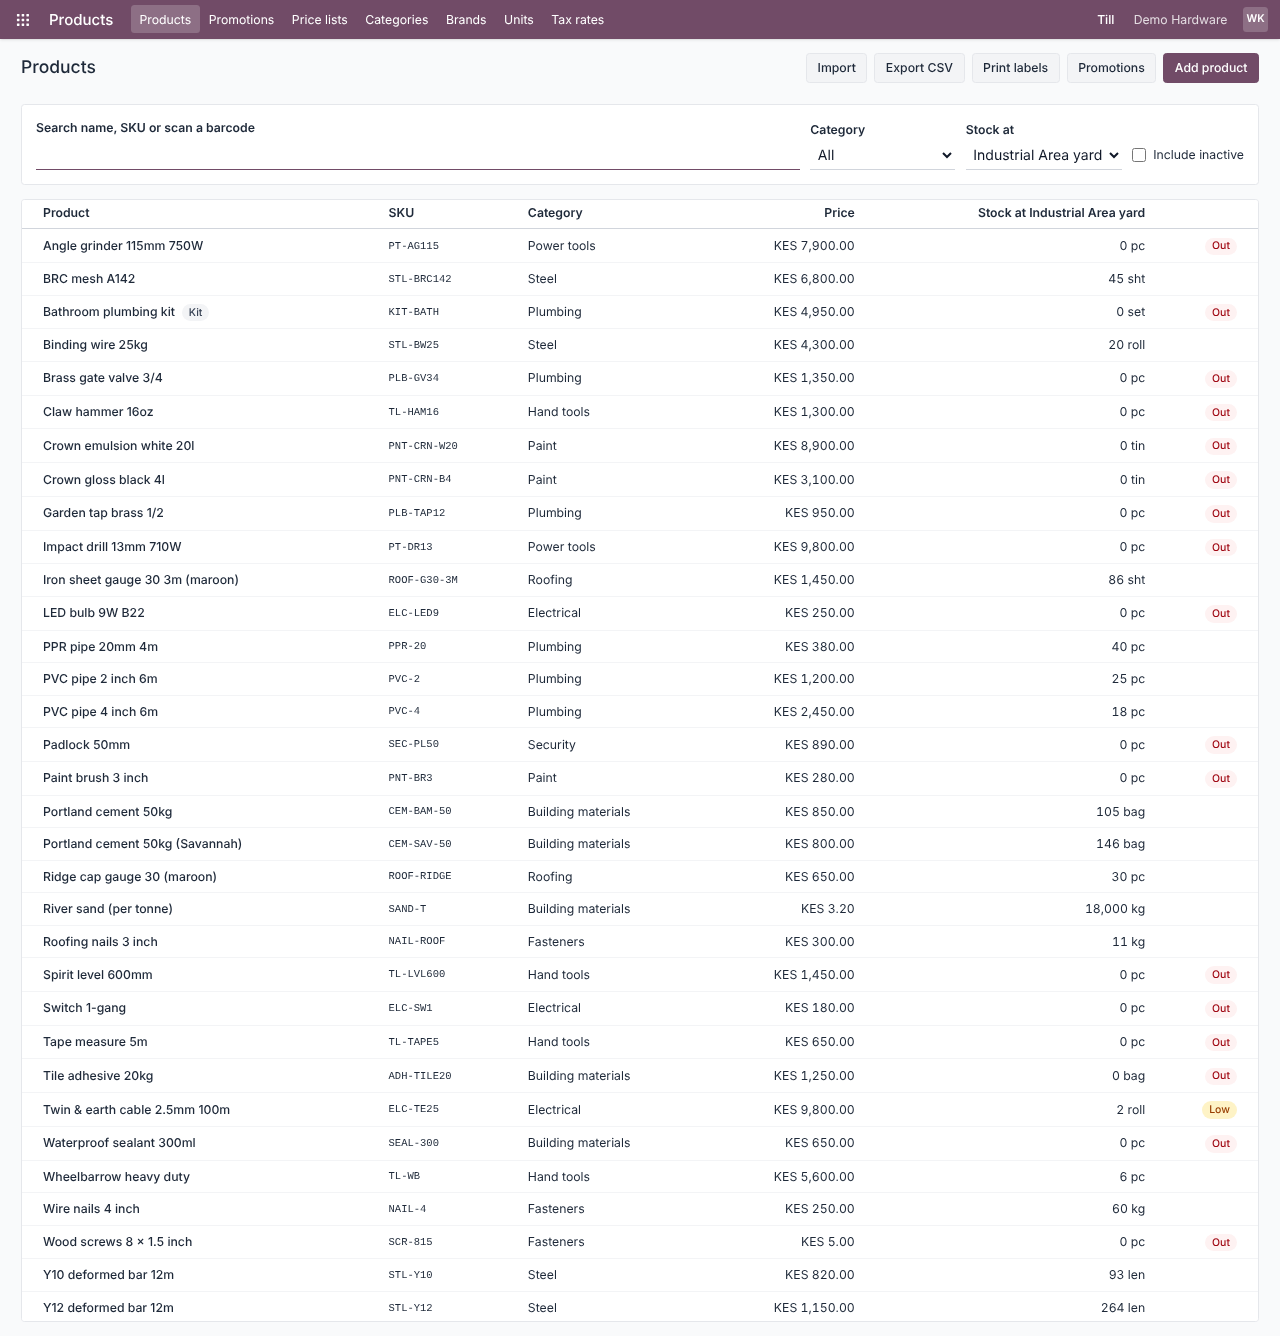
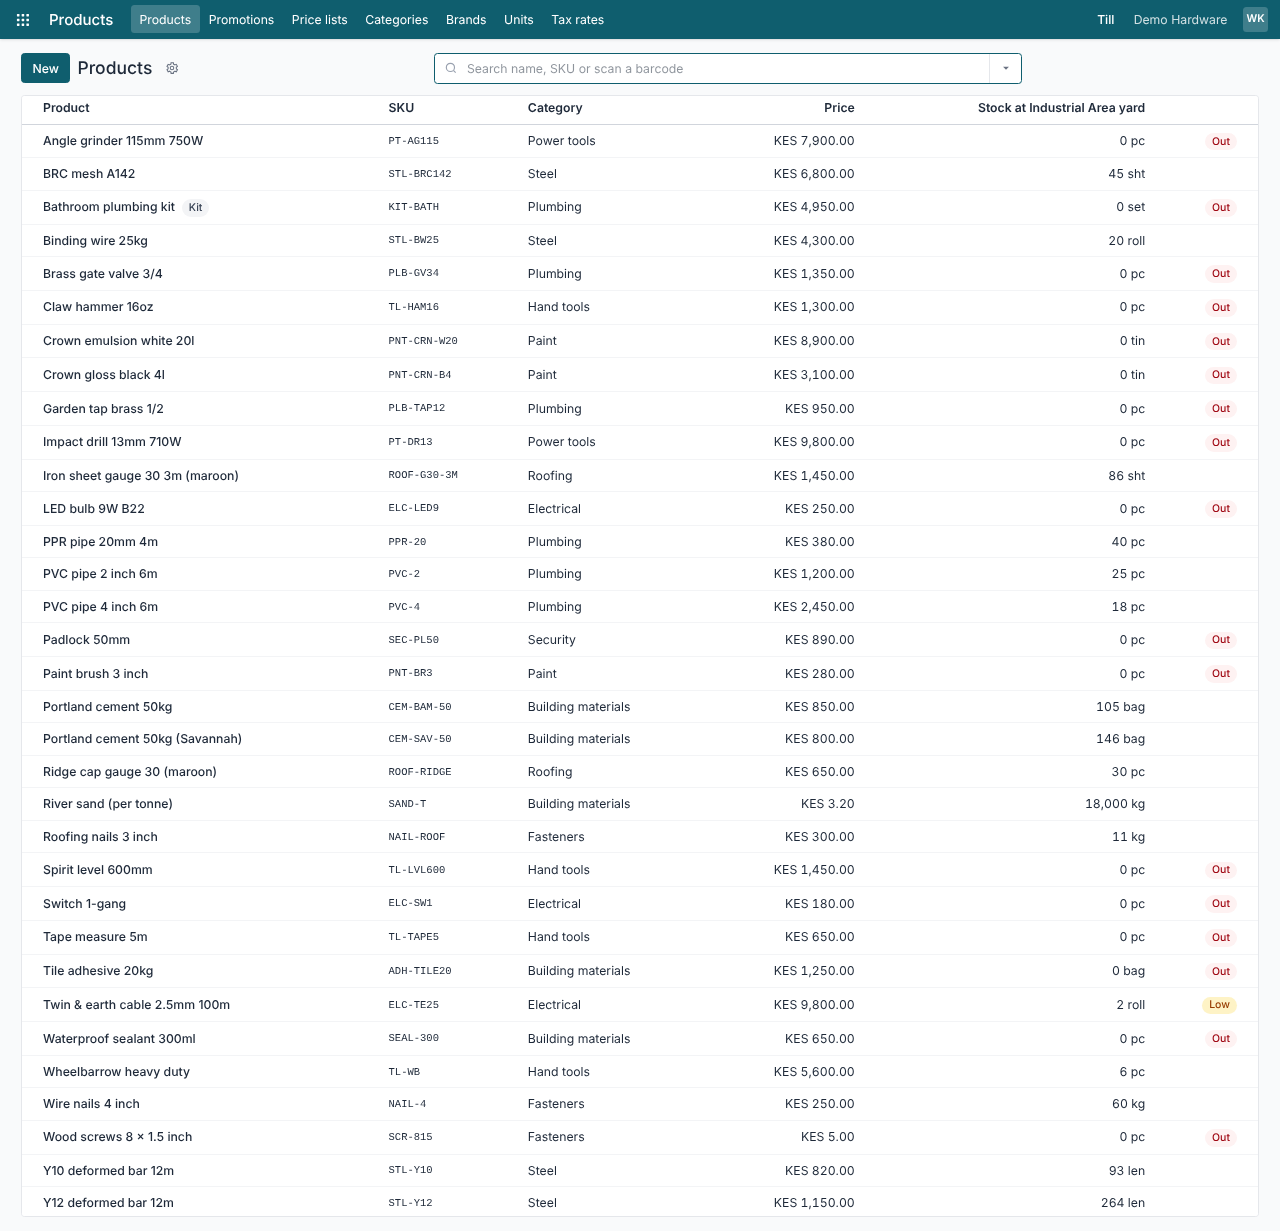
Petrol teal instead of Odoo purple
- Primary colour #0F5E6E for the top bar, buttons, charts and selected states; links a shade darker (#0D505E)
- Logo, app icon, receipts, emails and the phone theme colour updated to match
- Screenshots and the brand notes updated

Claude-Session: https://claude.ai/code/session_012fzfKoqp2VCXaZBHDQsfSF

diff --git a/app/assets/tailwind/application.css b/app/assets/tailwind/application.css
@@ -1,29 +1,29 @@
 @import "tailwindcss";
 
 /*
- * HardPoint look: a business back office in the Odoo mould.
- *   primary-500  #714B67  top bar, primary buttons, active states
- *   accent-600   #017E84  links
+ * HardPoint look: a business back office laid out like Odoo, in petrol teal.
+ *   primary-500  #0F5E6E  top bar, primary buttons, active states
+ *   accent-600   links, a shade darker than primary
  *   gray-*       Tailwind greys for text, borders and surfaces
  *   amber-*      warnings (low stock, payment due, offline)
  */
 @theme {
   --font-sans: "Roboto", "Segoe UI", system-ui, -apple-system, "Helvetica Neue", Arial, sans-serif;
 
-  --color-primary-50: #f8f3f7;
-  --color-primary-100: #efe4ec;
-  --color-primary-200: #dfc9d9;
-  --color-primary-300: #c5a3bd;
-  --color-primary-400: #8f6886;
-  --color-primary-500: #714b67;
-  --color-primary-600: #64405b;
-  --color-primary-700: #573650;
-  --color-primary-800: #452b40;
-  --color-primary-900: #34202f;
+  --color-primary-50: #f3f7f8;
+  --color-primary-100: #e2ecee;
+  --color-primary-200: #c3d7db;
+  --color-primary-300: #93b7be;
+  --color-primary-400: #4b8692;
+  --color-primary-500: #0f5e6e;
+  --color-primary-600: #0d5361;
+  --color-primary-700: #0c4956;
+  --color-primary-800: #093a44;
+  --color-primary-900: #072d35;
 
-  --color-accent-500: #00a09d;
-  --color-accent-600: #017e84;
-  --color-accent-700: #016a6f;
+  --color-accent-500: #4b8692;
+  --color-accent-600: #0d505e;
+  --color-accent-700: #0a424d;
 }
 
 @layer base {
@@ -119,7 +119,7 @@
   /* App launcher (home menu) */
   .o-apps:popover-open {
     @apply fixed inset-0 m-0 flex h-screen max-h-none w-screen max-w-none flex-col overflow-y-auto border-0 p-0;
-    background: linear-gradient(160deg, #7c5a72 0%, #5b3f55 55%, #3e2b3b 100%);
+    background: linear-gradient(160deg, #2a7584 0%, #0f5462 55%, #082f37 100%);
   }
 }
 

diff --git a/docs/BRAND.md b/docs/BRAND.md
@@ -1,6 +1,6 @@
 # HardPoint look and layout
 
-The back office follows Odoo's layout and colours, so it looks familiar to anyone who has used a business suite.
+The back office follows Odoo's layout, so it looks familiar to anyone who has used a business suite, in its own petrol teal.
 
 ## Layout
 
@@ -22,23 +22,23 @@ The back office follows Odoo's layout and colours, so it looks familiar to anyon
 
 | Token | Hex | Use |
 |---|---|---|
-| `primary-500` | `#714B67` | Top bar, primary buttons, selected states, charts |
-| `accent-600` | `#017E84` | Links |
+| `primary-500` | `#0F5E6E` | Top bar, primary buttons, selected states, charts |
+| `accent-600` | `#0D505E` | Links |
 | `gray-*` | Tailwind greys | Text (`gray-800`), muted text (`gray-500`), borders (`gray-200`), page (`gray-50`) |
 | `amber-*` | Tailwind amber | Warnings: low stock, payment due, offline, impersonation |
 | `red-*`, `green-*` | Tailwind | Errors and destructive actions; success notices |
 
-White text on `primary-500` is 7.2:1, `accent-600` on white is 4.9:1 and `gray-500` on the page is 4.6:1, all above WCAG AA.
+White text on `primary-500` is 7.4:1, `accent-600` on white is 9.0:1 and `gray-500` on the page is 4.6:1, all above WCAG AA.
 
 ## Rules
 
-- One primary (purple) button per screen, for the main action. Everything else is `btn-secondary`.
+- One primary (petrol) button per screen, for the main action. Everything else is `btn-secondary`.
 - Amber means "needs attention", never decoration.
 
 ## Logo
 
 A hex nut next to the wordmark **HardPoint**, rendered by `app/views/shared/_logo.html.erb`. The app icon
-(`public/icon.svg`, `icon.png`) is a white nut on a purple rounded square.
+(`public/icon.svg`, `icon.png`) is a white nut on a petrol rounded square.
 
 ## Components
 

diff --git a/docs/PLAN.md b/docs/PLAN.md
@@ -13,7 +13,7 @@ customers, staff, or reports.
 | CSS | **Tailwind CSS 4** via `tailwindcss-rails` 4.x |
 | Tenant isolation | **Keep Postgres row-level security** alongside `Current.account` scoping (§2) |
 | Style | Vanilla Rails: built-ins first, rich models, CRUD controllers, Minitest + fixtures (§1) |
-| Brand | Odoo-style layout and colours: purple `#714B67`, teal links `#017E84`, Tailwind greys (docs/BRAND.md) |
+| Brand | Odoo-style layout in petrol teal `#0F5E6E`, links `#0D505E`, Tailwind greys (docs/BRAND.md) |
 | Till PINs | Only for cashiers and stock clerks, and only on a till that's already signed in, so a PIN can never stand in for an owner's password + 2FA |
 | Spreadsheets | CSV only (Ruby's `csv`), which Excel and Google Sheets open and save; no XLSX gem unless shops ask |
 | Labels | Printed from the browser (A4 sheets or 50 × 25 mm rolls) rather than generated PDFs; barcodes via `barby` |
